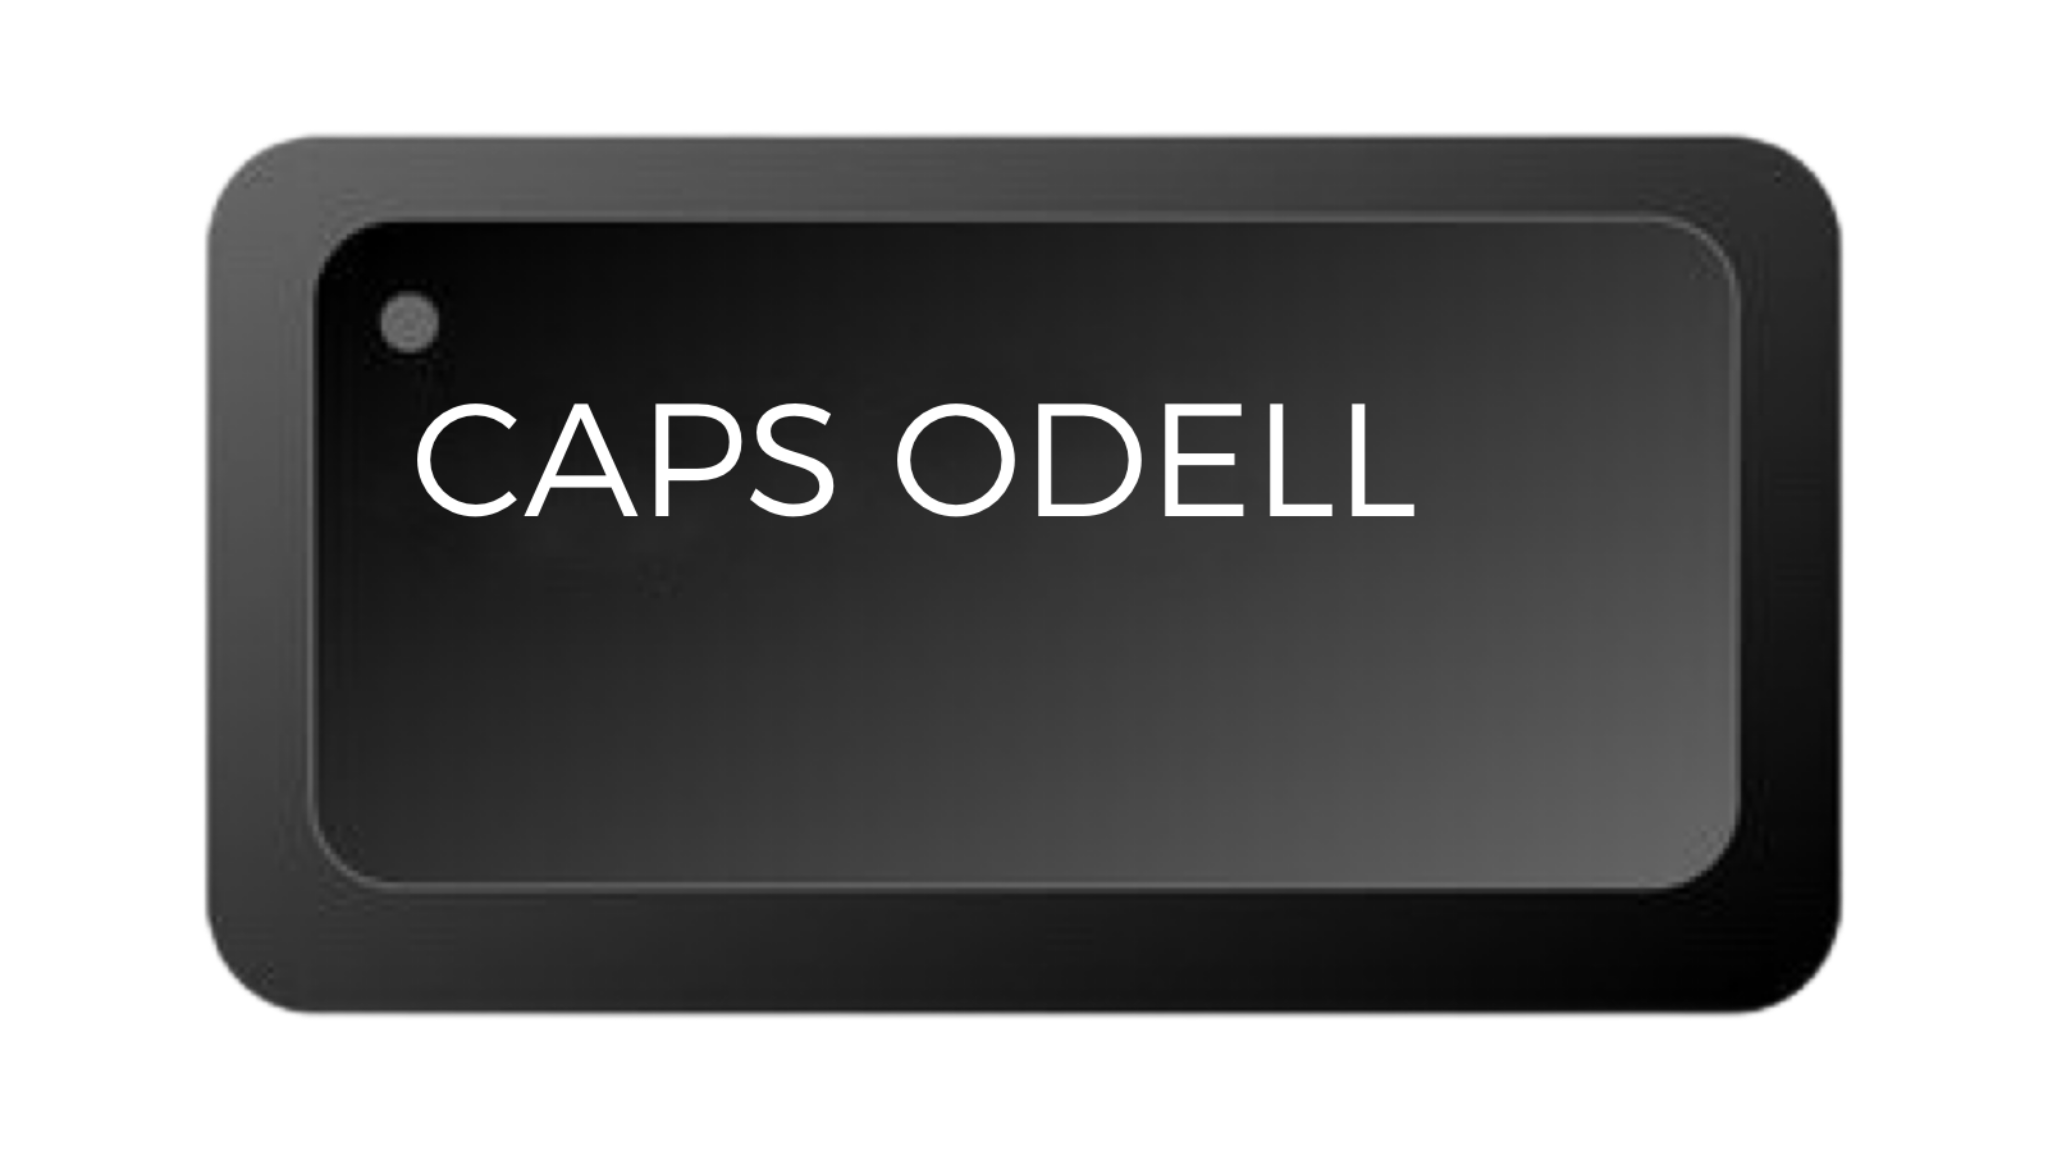
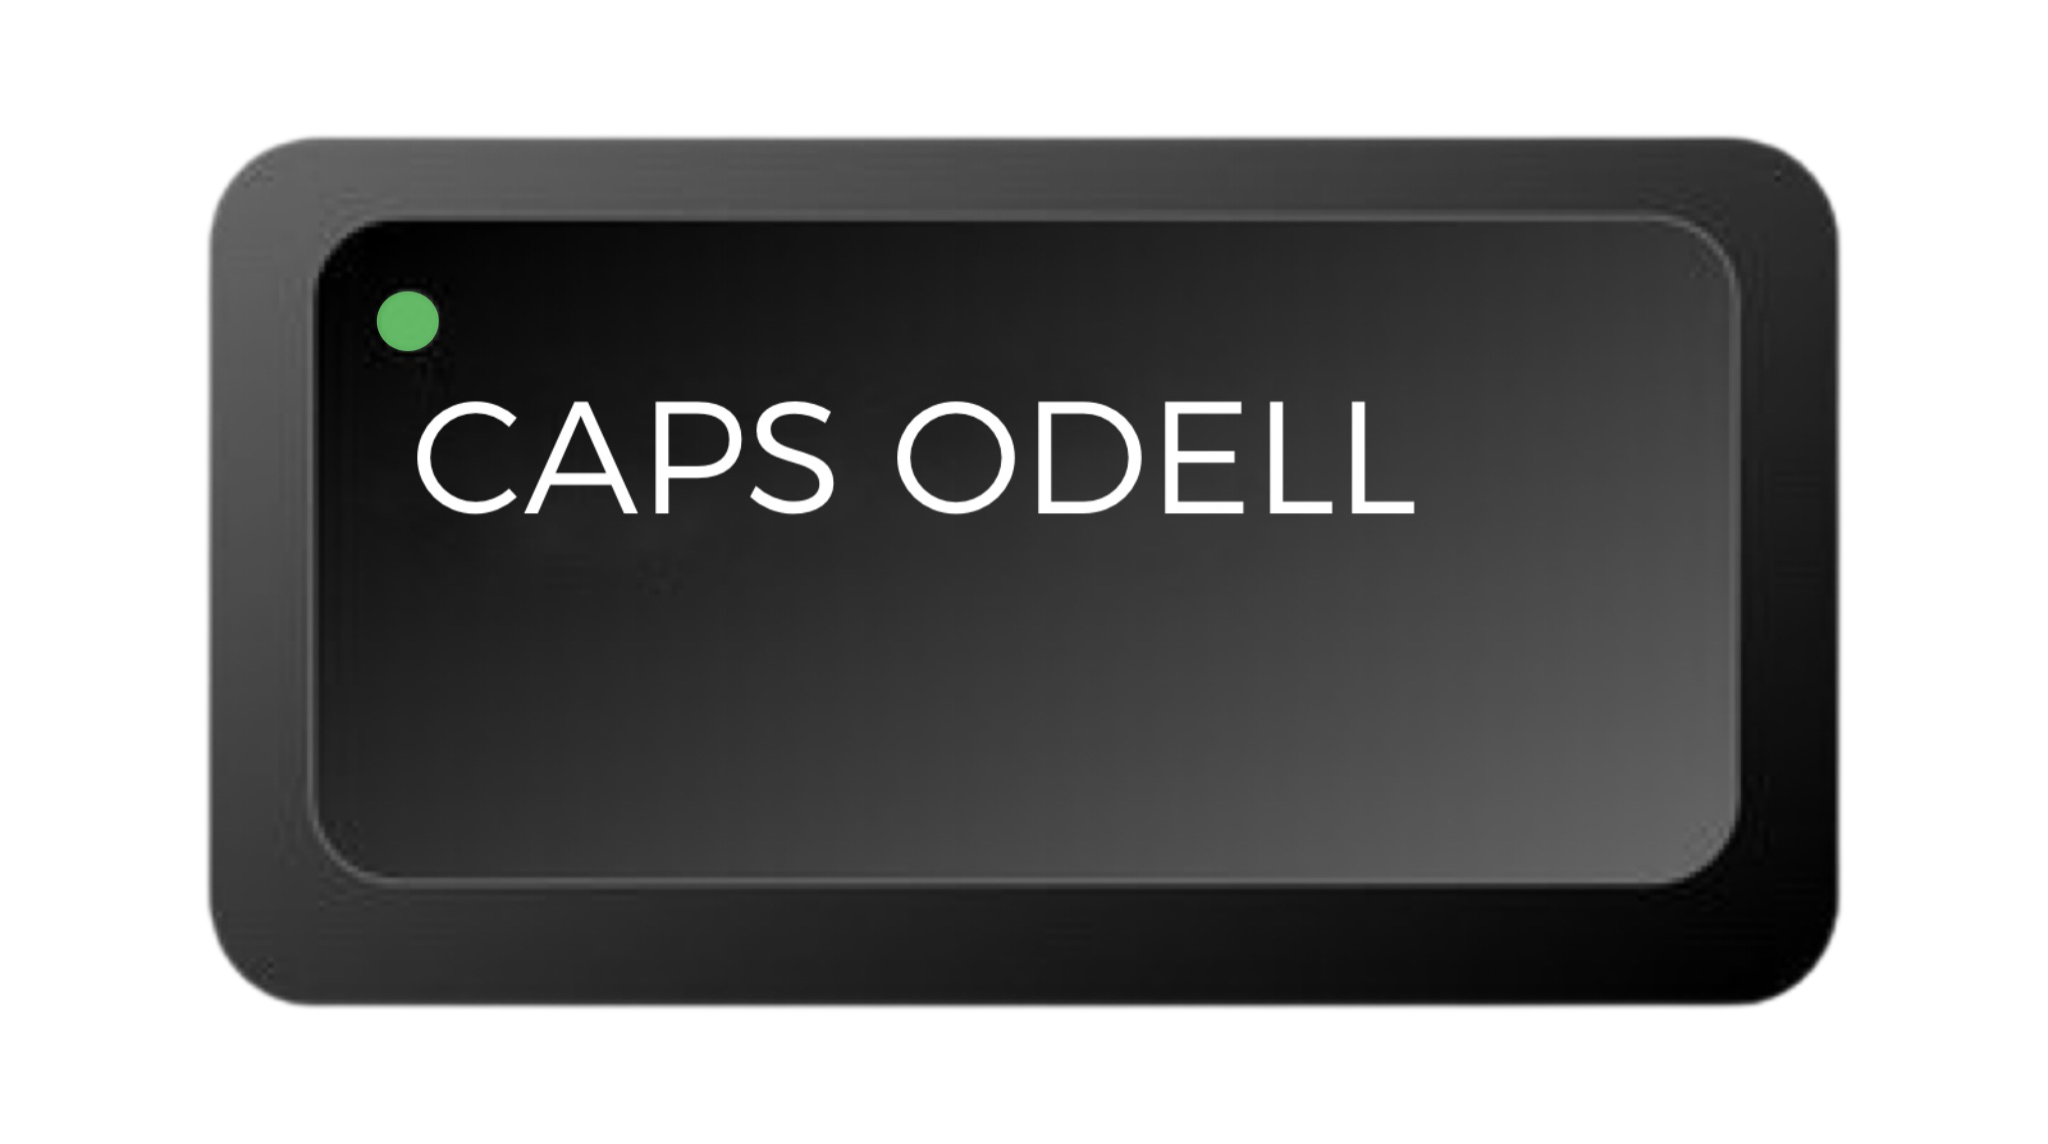
v42.0.69
(1) ADDED 'ON' INDICATOR TO CAPS ODELL KEY (2) ADDED FAVICON (3) MODIFIED APP ICON (TRANSPARENT BACKGROUND)

diff --git a/index.html b/index.html
@@ -6,6 +6,7 @@
   <meta name="viewport" content="width=device-width, initial-scale=1.0, maximum-scale=1.0, user-scalable=no">
   <title>CAPS ODELL</title>
   <link rel="manifest" href="manifest.json">
+  <link rel="icon" href="CAPSODELL_ICON_WHITE.PNG" type="image/png">
 
   <style>
     body {
@@ -141,7 +142,7 @@
   <img src="CAPSODELL.JPG" alt="CAPSODELL" class="bottom-left-image" onclick="changeOdellism()">
 
   <div class="version">
-    <p>v42.0.68</p>
+    <p>v42.0.69</p>
   </div>
 
   <script>
